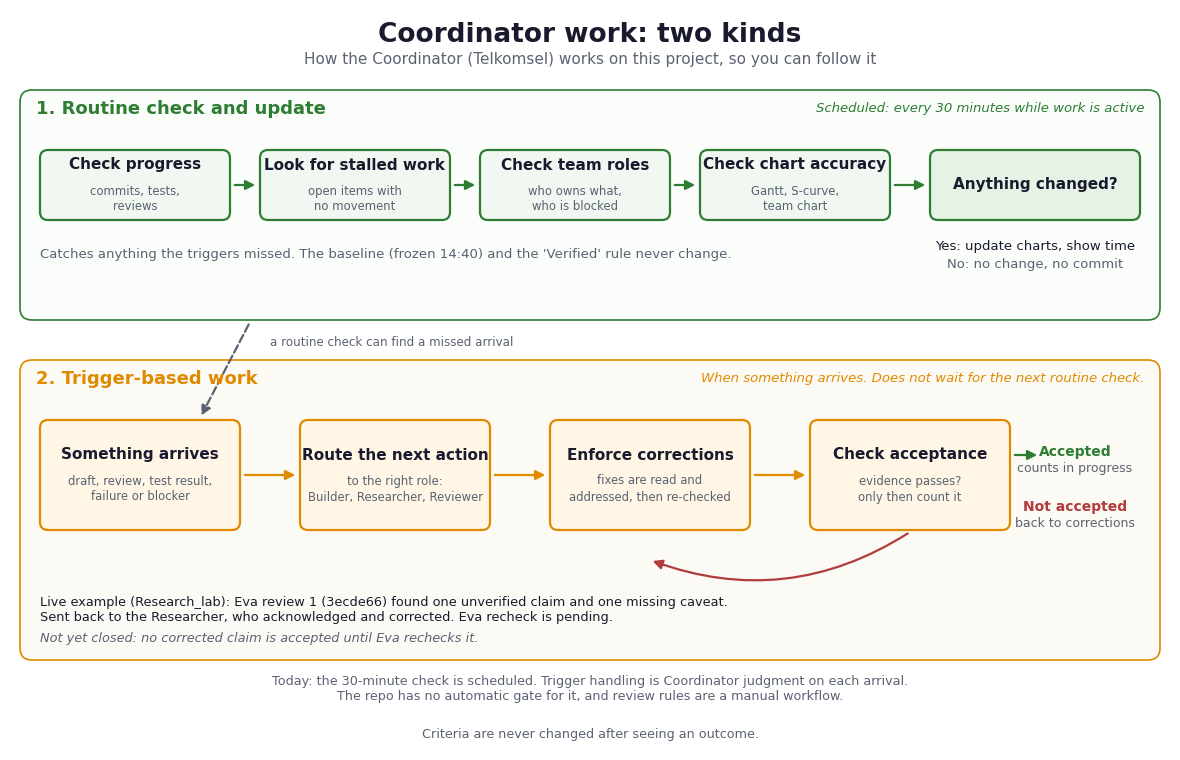
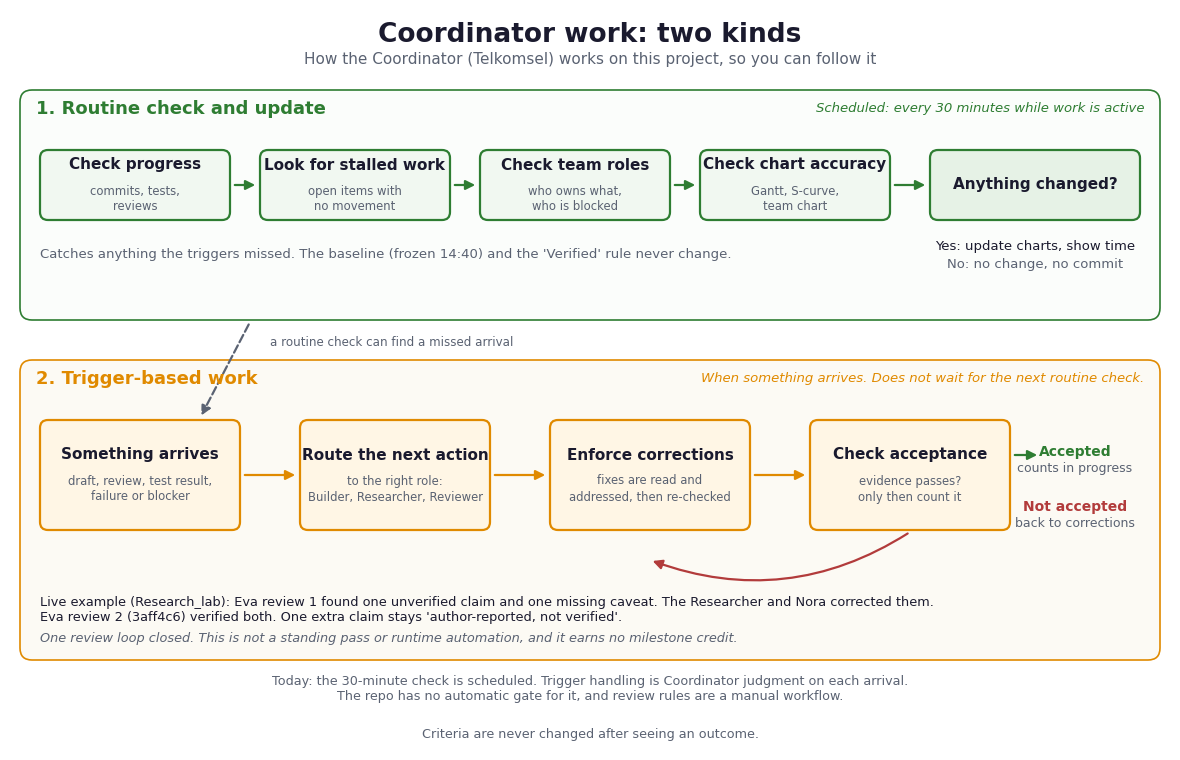
Coordinator diagram: Eva review 2 closed the first loop; no credit change

Changed region(s): [[0.0305, 0.7868, 0.7932, 0.8474]]

diff --git a/docs/progress/coordinator_flow.py b/docs/progress/coordinator_flow.py
@@ -46,8 +46,8 @@ ax.text(1075,500,"Not accepted",ha="center",fontsize=10,fontweight="bold",color=
 ax.text(1075,517,"back to corrections",ha="center",fontsize=9,color=GRAY,va="top")
 arrow(910,532,650,560,"#b23b3b",rad=-0.25); 
 # example strip
-ax.text(40,596,"Live example (Research_lab): Eva review 1 (3ecde66) found one unverified claim and one missing caveat.\nSent back to the Researcher, who acknowledged and corrected. Eva recheck is pending.",fontsize=9.3,color=INK,va="top")
-ax.text(40,632,"Not yet closed: no corrected claim is accepted until Eva rechecks it.",fontsize=9.3,color=GRAY,va="top",fontstyle="italic")
+ax.text(40,596,"Live example (Research_lab): Eva review 1 found one unverified claim and one missing caveat. The Researcher and Nora corrected them.\nEva review 2 (3aff4c6) verified both. One extra claim stays 'author-reported, not verified'.",fontsize=9.3,color=INK,va="top")
+ax.text(40,632,"One review loop closed. This is not a standing pass or runtime automation, and it earns no milestone credit.",fontsize=9.3,color=GRAY,va="top",fontstyle="italic")
 # link
 arrow(250,322,200,418,GRAY,"--",0.0)
 ax.text(270,336,"a routine check can find a missed arrival",fontsize=8.6,color=GRAY,va="top")
